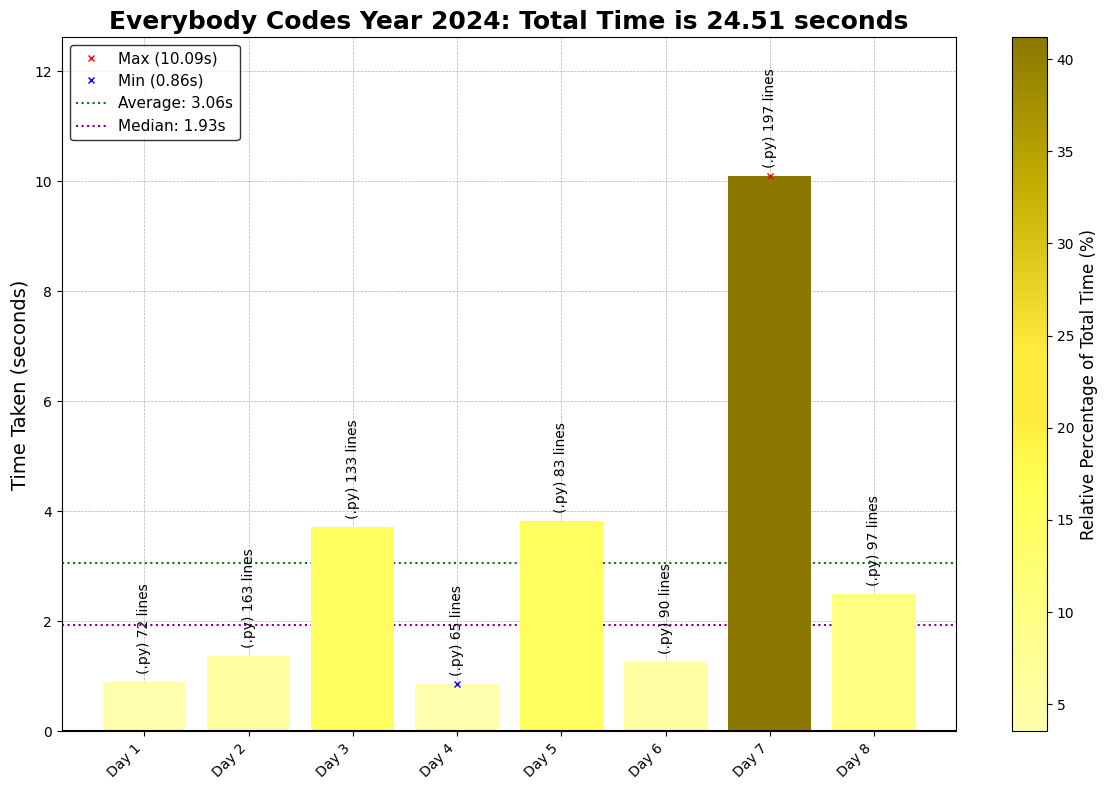
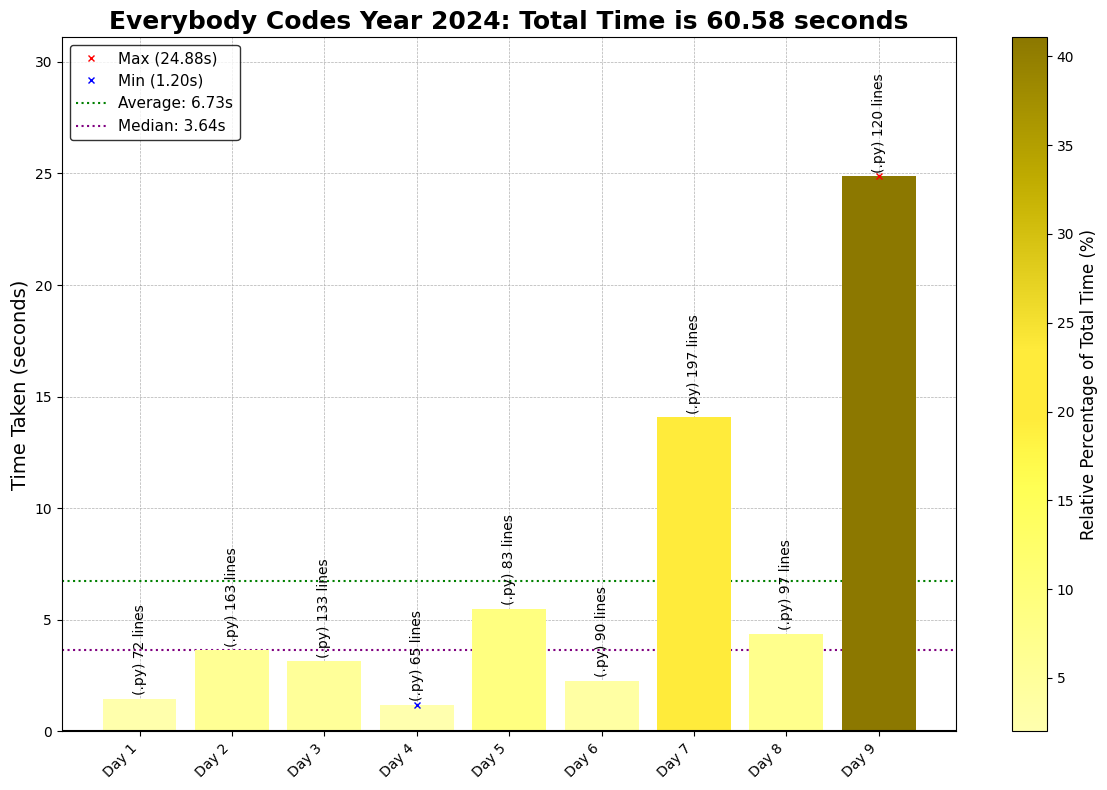
2024 Day 9

diff --git a/2024/09/2024Day09.py b/2024/09/2024Day09.py
@@ -1,0 +1,120 @@
+
+# Everybody Codes - Day 9, Year 2024
+# Solved in 2024
+# Puzzle Link: https://everybody.codes/event/2024/quests/9
+# Solution by: [abbasmoosajee07]
+# Brief: [Code/Problem Description]
+
+#!/usr/bin/env python3
+
+import os, sys, re, copy
+import numpy as np
+import pandas as pd
+import matplotlib.pyplot as plt
+sys.setrecursionlimit(10**9)  # Increase the recursion depth
+
+# List of input file names
+input_files = ["Day09_p1_input.txt", "Day09_p2_input.txt", "Day09_p3_input.txt"]
+
+# Read and split the input data into individual lists
+input_data_p1, input_data_p2, input_data_p3 = [
+    open(os.path.join(os.path.dirname(__file__), file)).read().strip().split('\n')
+    for file in input_files
+]
+
+# Now, input_data_p1, input_data_p2, input_data_p3 contain the respective data
+# print(input_data_p1), print(input_data_p2), print(input_data_p3)
+
+
+def find_combinations(num, stamps, DP):
+    if num < 0:
+        return 10**9  # Return a large number to indicate invalid cases
+    if num == 0:
+        return 0  # Base case: no stamps needed for a total of 0
+    if num in DP:
+        return DP[num]  # Return cached result if available
+
+    ans = 10**9  # Initialize with a large number
+    for stamp in stamps:
+        ans = min(ans, 1 + find_combinations(num - stamp, stamps, DP))
+
+    DP[num] = ans  # Cache the result
+    return ans
+
+def find_total_combos(num_str, stamps):
+    num_list = [int(num) for num in num_str]
+    total_count = 0
+    for num in num_list:
+        DP = {}
+        count = find_combinations(num, stamps, DP)
+        # print(count)
+        total_count += count
+    return total_count
+
+# Run Code for Day 9, 2024
+stamps_p1 = [1, 3, 5, 10]
+ans_p1 = find_total_combos(input_data_p1, stamps_p1)
+print(f"Part 1: {ans_p1}")
+
+stamps_p2 = [1, 3, 5, 10, 15, 16, 20, 24, 25, 30]
+ans_p2 = find_total_combos(input_data_p2, stamps_p2)
+print(f"Part 2: {ans_p2}")
+
+def beetles_for_kings_order(input_data, stamps):
+    """
+    Calculate the total number of beetles required for the King's order.
+
+    :param input_data: List of integers representing the King's orders.
+    :param stamps: List of available stamps.
+    :return: Total number of beetles required.
+    """
+
+    # Step 1: Precompute the minimum number of stamps needed for each value up to 10^7
+    MAX_VALUE = 10**7
+    INF = 10**9  # Represent a very large number for invalid cases
+
+    # Create a list to store minimum stamps for each value
+    min_stamps = [INF] * (MAX_VALUE + 1)
+    min_stamps[0] = 0  # Base case: 0 stamps needed for value 0
+
+    for x in range(1, MAX_VALUE + 1):
+        for stamp in stamps:
+            if x - stamp >= 0:
+                min_stamps[x] = min(min_stamps[x], 1 + min_stamps[x - stamp])
+
+    # Step 2: Define helper functions for calculations
+
+    def f(n):
+        """Return the precomputed minimum stamps for value `n`."""
+        return min_stamps[n]
+
+    def g(n):
+        """
+        For a given `n`, calculate the minimum stamps required
+        considering possible splits into two close parts.
+        """
+        mid = n // 2
+        best_score = INF
+
+        # Check values around the midpoint to ensure balanced parts
+        for x in range(max(mid - 200, 0), min(mid + 200, n + 1)):
+            y = n - x
+            if abs(x - y) <= 100:  # Ensure x and y are close
+                score = f(x) + f(y)
+                if score < best_score:
+                    best_score = score
+        return best_score
+
+    # Step 3: Process each order in input_data
+
+    total_beetles = 0
+    for line in input_data:
+        order_value = int(line.strip())
+        total_beetles += g(order_value)
+
+    return total_beetles
+stamps_p3 = [1, 3, 5, 10, 15, 16, 20, 24, 25, 30, 37, 38, 49, 50, 74, 75, 100, 101]
+ans_p3 = beetles_for_kings_order(input_data_p3, stamps_p3)
+print(f"Part 3: {ans_p3}")
+
+# 149562 Wrong ans, Correct len and first digit

diff --git a/2024/README_2024.md b/2024/README_2024.md
@@ -7,7 +7,9 @@ This repository contains coding solutions for the 2024 Everybody Codes. Each day
 1. **Day 1 - Letter Fighters**: Count number of letters in a series of strings, keeping track of groups and assigning different weights
 2. **Day 2 - Word Search Algorithms**: Looking for specific string groups in a series of strings, using a Breadth-Find Search for Part 3.
 3. **Day 3 - Game of Life**: Mine the ground based on  conditions surrounding it
-4. **Day 4 - Number Lists and Math**: Throwback to simple maths, requiring simple addition
-5. **Day 5 - Rotating Columns**: Weird Dances and rotating columns
+4. **Day 4 - Number Lists and Math**: Throwback to simple maths, requiring simple addition.
+5. **Day 5 - Rotating Columns**: Weird Dances and rotating columns.
 6. **Day 6 - Word Trees**: Generate a word tree using networkx libraries
-7. **Day 7 - Race Tracks**: Identify results of a race and different permutations to win
+7. **Day 7 - Race Tracks**: Identify results of a race and different permutations to win.
+8. **Day 8- Building Shrines**: Build a shrine using numbered blocks with various different construction restrictions.
+9. **Day 9- How to build a number**: Using recursion find the different combinations that can be used to build a number.
